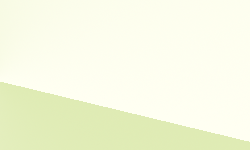
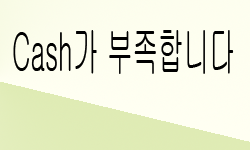
상점 - 캐쉬구매 세분화(완료), 포션구매확인(개발중)

Changed region(s): [[0.42, 0.1867, 0.952, 0.5067], [0.028, 0.1867, 0.392, 0.5067], [0.532, 0.4, 0.616, 0.5067]]

diff --git a/src/view/jpanel/StoreJPanel.java b/src/view/jpanel/StoreJPanel.java
@@ -26,30 +26,75 @@ public class StoreJPanel extends JPanel implements ActionListener{
 	private BuyPotionJButton buyPotionJButton = new BuyPotionJButton(new ImageIcon("image/store/potion.png"));
 	private BuyAutoTapJButton buyAutoTapJButton = new BuyAutoTapJButton(new ImageIcon("image/store/autoTap.png"));
 	private BuyLottoJButton buyLottoJButton = new BuyLottoJButton(new ImageIcon("image/store/lotto.png"));
+	
 	private BuyCashJButton buyCashJButton = new BuyCashJButton(new ImageIcon("image/store/cash.png"));
+	private Cash1000JButton Cash1000JButton = new Cash1000JButton(new ImageIcon("image/store/cash1000.png"));
+	private Cash3000JButton Cash3000JButton = new Cash3000JButton(new ImageIcon("image/store/cash3000.png"));
+	private Cash5000JButton Cash5000JButton = new Cash5000JButton(new ImageIcon("image/store/cash5000.png"));
+	private CashCloseJButton cashCloseJButton = new CashCloseJButton(new ImageIcon("image/store/close.png"));
+	private YesBuyPotionJButton yesBuyPotionJButton = new YesBuyPotionJButton(new ImageIcon("image/store/empty.png"));
+	
 	private EmptyMoneyJButton emptyMoneyJButton = new EmptyMoneyJButton(new ImageIcon("image/store/empty.png"));
 	
-	private	JPanel emptyMoneyJPanel = new JPanel();
-
+	private	JPanel emptyMoneyJPanel ;
+	private JPanel buyCashJPanel ;
+	private JPanel explanationPotionJPanel;
+	
 	private BufferedImage  storeBackGroundImage;
 	private BufferedImage  emptyPanelImage;
+	private BufferedImage  buyCashJPanelImage;
+	private BufferedImage  explanationPotionJPanelImage;
 	
 	public StoreJPanel() {
 
 		setLayout(null);
 		setBounds(3, 52, 338, 610);
-		setBackground(new Color(100, 100, 100));
 		
-		emptyMoneyJPanel.setLocation(44, 170);
-		emptyMoneyJPanel.setSize(250, 150);
+		emptyMoneyJPanel = new JPanel(){
+			protected void paintComponent(Graphics g){
+				super.paintComponent(g);
+				g.drawImage(emptyPanelImage, 0, 5, null); 
+			}
+		};
+		
+		buyCashJPanel = new JPanel(){
+			protected void paintComponent(Graphics g){
+				super.paintComponent(g);
+				g.drawImage(buyCashJPanelImage, 0, 5, null); 
+			}
+		};
+		explanationPotionJPanel = new JPanel(){
+			protected void paintComponent(Graphics g){
+				super.paintComponent(g);
+				g.drawImage(explanationPotionJPanelImage, 0, 5, null); 
+			}
+		};
+	
+		emptyMoneyJPanel.setBounds(44, 170, 250, 150);
 		emptyMoneyJPanel.add(emptyMoneyJButton);
 		emptyMoneyJPanel.setVisible(false);
+		emptyMoneyJPanel.setLayout(null);
 		
 		
+		buyCashJPanel.setBounds(44, 50, 250, 400);
+		buyCashJPanel.setVisible(false);
+		buyCashJPanel.add(Cash1000JButton);
+		buyCashJPanel.add(Cash3000JButton);
+		buyCashJPanel.add(Cash5000JButton);
+		buyCashJPanel.add(cashCloseJButton);
+		buyCashJPanel.setLayout(null);
+		
+		
+		explanationPotionJPanel.setBounds(44, 170, 250, 150);
+		explanationPotionJPanel.setVisible(false);
+		explanationPotionJPanel.setLayout(null);
+		explanationPotionJPanel.add(yesBuyPotionJButton);
 		
 		try {
 			storeBackGroundImage = ImageIO.read(new File("image/store/testBackGround.png"));
 			emptyPanelImage = ImageIO.read(new File("image/store/emptyPanel.png"));
+			buyCashJPanelImage = ImageIO.read(new File("image/store/buyCashPanel.png"));
+			explanationPotionJPanelImage = ImageIO.read(new File("image/store/explanationPotion.png"));
 			
 		} catch (IOException e) {
 			e.printStackTrace();
@@ -61,6 +106,9 @@ public class StoreJPanel extends JPanel implements ActionListener{
 		
 		
 		this.add(emptyMoneyJPanel);
+		this.add(buyCashJPanel);
+		this.add(explanationPotionJPanel);
+		
 		this.add(buyPotionJButton);
 		this.add(buyAutoTapJButton);
 		this.add(buyLottoJButton);
@@ -71,7 +119,11 @@ public class StoreJPanel extends JPanel implements ActionListener{
 		buyLottoJButton.addActionListener(this);
 		buyCashJButton.addActionListener(this);
 		emptyMoneyJButton.addActionListener(this);
-		
+		Cash1000JButton.addActionListener(this);
+		Cash3000JButton.addActionListener(this);
+		Cash5000JButton.addActionListener(this);
+		cashCloseJButton.addActionListener(this);
+		yesBuyPotionJButton.addActionListener(this);
 
 	}
 
@@ -85,7 +137,8 @@ public class StoreJPanel extends JPanel implements ActionListener{
 	
 	@Override
 	public void actionPerformed(ActionEvent e) {
-		View.cm().storeMenu(this, e, emptyMoneyJPanel, buyPotionJButton, buyAutoTapJButton, buyLottoJButton, buyCashJButton);
+		View.cm().storeMenu(this, e, emptyMoneyJPanel, buyPotionJButton, buyAutoTapJButton, buyLottoJButton, buyCashJButton, buyCashJPanel, cashCloseJButton,
+				explanationPotionJPanel, yesBuyPotionJButton);
 	}
 	
 	

diff --git a/src/controller/ControllerManager.java b/src/controller/ControllerManager.java
@@ -96,10 +96,11 @@ public class ControllerManager {
 	      state.choice(e, main.getMain());
 	   }
 	
-	public void storeMenu(StoreJPanel storeJPanel,  ActionEvent e,JPanel emptyMoneyJPanel,BuyPotionJButton buyPotionJButton,BuyAutoTapJButton buyAutoTapJButton,BuyLottoJButton buyLottoJButton,BuyCashJButton buyCashJButton) {
-		store.StoreMenu(storeJPanel, e , main.getMain(), player.getPlayer(), emptyMoneyJPanel, buyPotionJButton, buyAutoTapJButton, buyLottoJButton, buyCashJButton);
+	public void storeMenu(StoreJPanel storeJPanel,  ActionEvent e,JPanel emptyMoneyJPanel,BuyPotionJButton buyPotionJButton,BuyAutoTapJButton buyAutoTapJButton,
+			BuyLottoJButton buyLottoJButton,BuyCashJButton buyCashJButton,JPanel buyCashJPanel, CashCloseJButton cashCloseJButton, JPanel explanationPotionJPanel,
+			YesBuyPotionJButton yesBuyPotionJButton) {
+		store.StoreMenu(storeJPanel, e , main.getMain(), player.getPlayer(), emptyMoneyJPanel, buyPotionJButton, buyAutoTapJButton, buyLottoJButton,
+				buyCashJButton, buyCashJPanel, cashCloseJButton, explanationPotionJPanel, yesBuyPotionJButton);
 	}
-	public void emptyMoney(JPanel emptyMoneyJPanel, ActionEvent e){
-		store.emptyMoney(emptyMoneyJPanel, e);
-	}
+	
 }

diff --git a/src/view/jbutton/storeMenuJButton/CashCloseJButton.java b/src/view/jbutton/storeMenuJButton/CashCloseJButton.java
@@ -5,16 +5,14 @@ import java.awt.Font;
 import javax.swing.ImageIcon;
 import javax.swing.JButton;
 
-public class EmptyMoneyJButton extends JButton {
+public class CashCloseJButton extends JButton {
 
-	public EmptyMoneyJButton(ImageIcon imageIcon) {
+	public CashCloseJButton(ImageIcon imageIcon) {
 
 		super(imageIcon);
-		
-		setLocation(85, 90);
-		setSize(80, 40);
 
-		
+		setLocation(50, 270);
+		setSize(150, 70);
+
 	}
-
 }

diff --git a/src/view/jbutton/storeMenuJButton/Cash3000JButton.java b/src/view/jbutton/storeMenuJButton/Cash3000JButton.java
@@ -5,16 +5,14 @@ import java.awt.Font;
 import javax.swing.ImageIcon;
 import javax.swing.JButton;
 
-public class EmptyMoneyJButton extends JButton {
+public class Cash3000JButton extends JButton {
 
-	public EmptyMoneyJButton(ImageIcon imageIcon) {
+	public Cash3000JButton(ImageIcon imageIcon) {
 
 		super(imageIcon);
-		
-		setLocation(85, 90);
-		setSize(80, 40);
 
-		
+		setLocation(50, 110);
+		setSize(150, 70);
+
 	}
-
 }

diff --git a/src/view/jbutton/storeMenuJButton/Cash5000JButton.java b/src/view/jbutton/storeMenuJButton/Cash5000JButton.java
@@ -5,16 +5,14 @@ import java.awt.Font;
 import javax.swing.ImageIcon;
 import javax.swing.JButton;
 
-public class EmptyMoneyJButton extends JButton {
+public class Cash5000JButton extends JButton {
 
-	public EmptyMoneyJButton(ImageIcon imageIcon) {
+	public Cash5000JButton(ImageIcon imageIcon) {
 
 		super(imageIcon);
-		
-		setLocation(85, 90);
-		setSize(80, 40);
 
-		
+		setLocation(50, 190);
+		setSize(150, 70);
+
 	}
-
 }

diff --git a/src/view/jbutton/storeMenuJButton/YesBuyPotionJButton.java b/src/view/jbutton/storeMenuJButton/YesBuyPotionJButton.java
@@ -5,14 +5,14 @@ import java.awt.Font;
 import javax.swing.ImageIcon;
 import javax.swing.JButton;
 
-public class EmptyMoneyJButton extends JButton {
+public class YesBuyPotionJButton extends JButton {
 
-	public EmptyMoneyJButton(ImageIcon imageIcon) {
+	public YesBuyPotionJButton(ImageIcon imageIcon) {
 
 		super(imageIcon);
 		
-		setLocation(85, 90);
-		setSize(80, 40);
+		setLocation(95, 110);
+		setSize(60, 30);
 
 		
 	}

diff --git a/src/view/jbutton/storeMenuJButton/Cash1000JButton.java b/src/view/jbutton/storeMenuJButton/Cash1000JButton.java
@@ -5,16 +5,14 @@ import java.awt.Font;
 import javax.swing.ImageIcon;
 import javax.swing.JButton;
 
-public class EmptyMoneyJButton extends JButton {
+public class Cash1000JButton extends JButton {
 
-	public EmptyMoneyJButton(ImageIcon imageIcon) {
+	public Cash1000JButton(ImageIcon imageIcon) {
 
 		super(imageIcon);
-		
-		setLocation(85, 90);
-		setSize(80, 40);
 
-		
+		setLocation(50, 30);
+		setSize(150, 70);
+
 	}
-
 }
